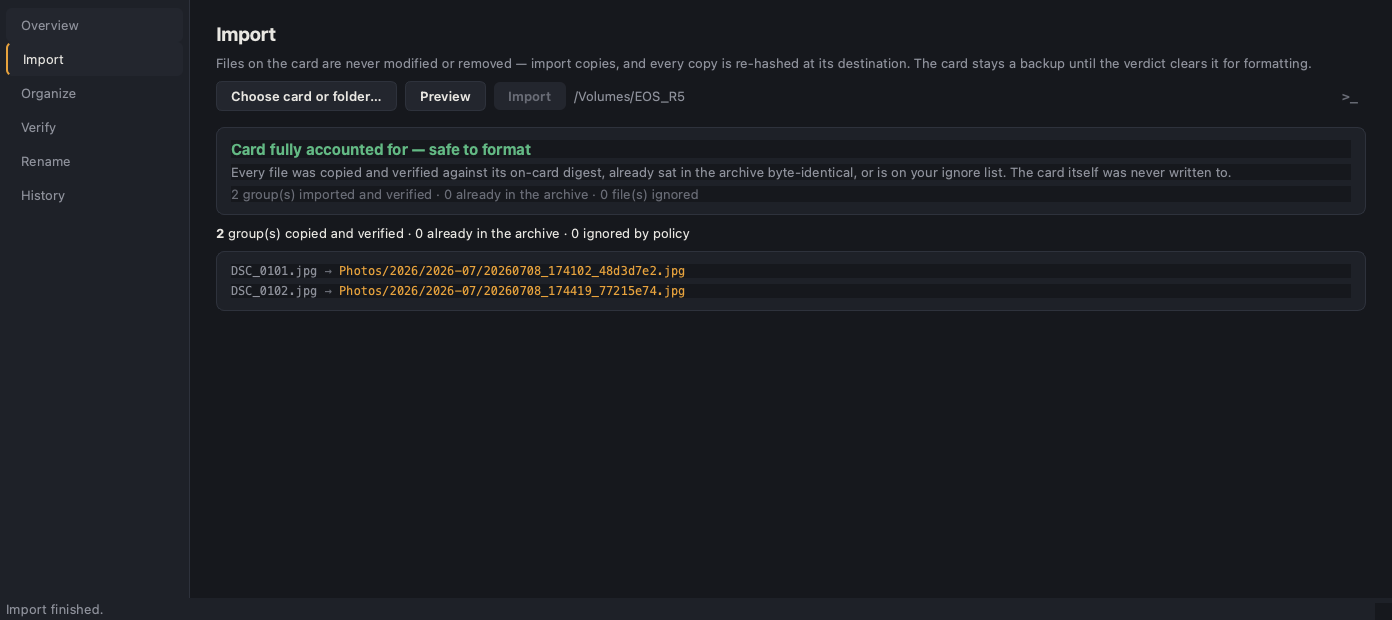
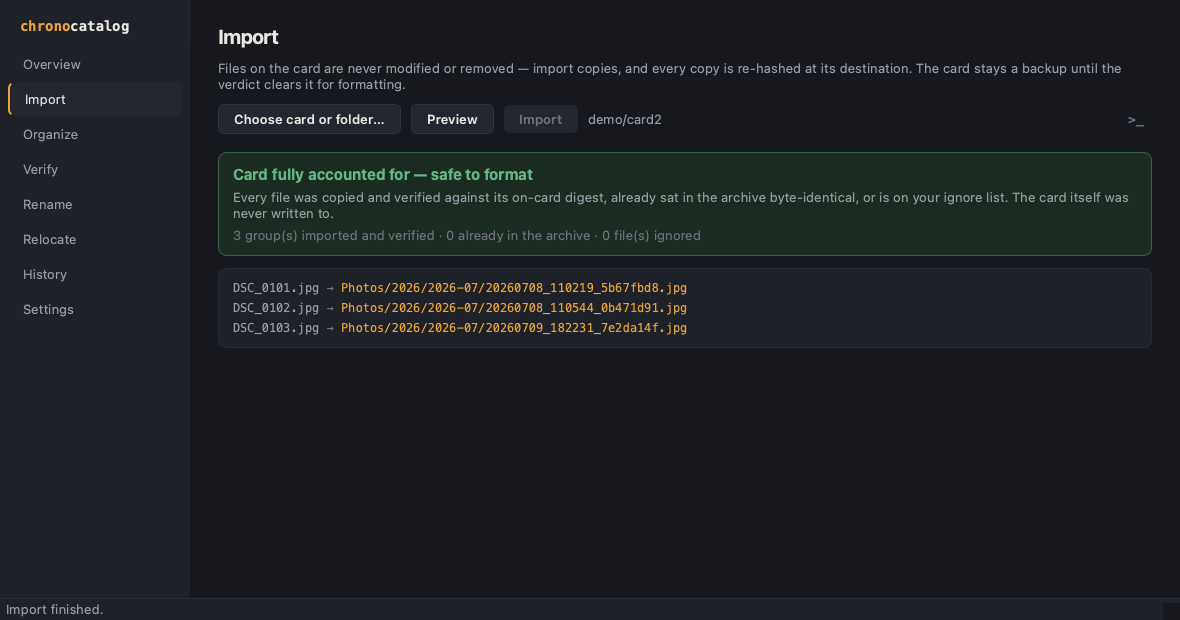
feat: current screenshots and the relocate story
All three screenshots are from 0.2.0 — Import's verdict, Verify with
a misplaced finding, and the new Relocate view — and the feature list
mentions shoot filing and pattern migrations.

diff --git a/content/_index.md b/content/_index.md
@@ -31,6 +31,14 @@ screenshots:
     caption: >-
       Verify explains findings in plain language, worst first — and
       tells corruption apart from ordinary edits.
+  - src: /images/app-relocate.png
+    alt: >-
+      The Relocate view: two files planned to move, each shown as its
+      current folder and the folder its name says it belongs in.
+    caption: >-
+      Names carry their own filing: Relocate puts files back where
+      their name says they belong — and hands Lightroom-managed
+      folders to Lightroom.
 desktop_features:
   - Safe by default — previews everywhere, one Apply, journaled changes
     with one-click Undo, and Resume for interrupted runs.
@@ -38,6 +46,8 @@ desktop_features:
     against hundreds of thousands of files.
   - Nothing hidden — every action can show the exact terminal command
     it stands for.
+  - Grows with the archive — file event shoots into their own folders,
+    or change the naming scheme with a guided, verifiable migration.
 lrc_blurb: >-
   Shooting through Lightroom Classic? The publish plugin keeps a plain
   folder tree in step with your catalog — and the archive tools respect
